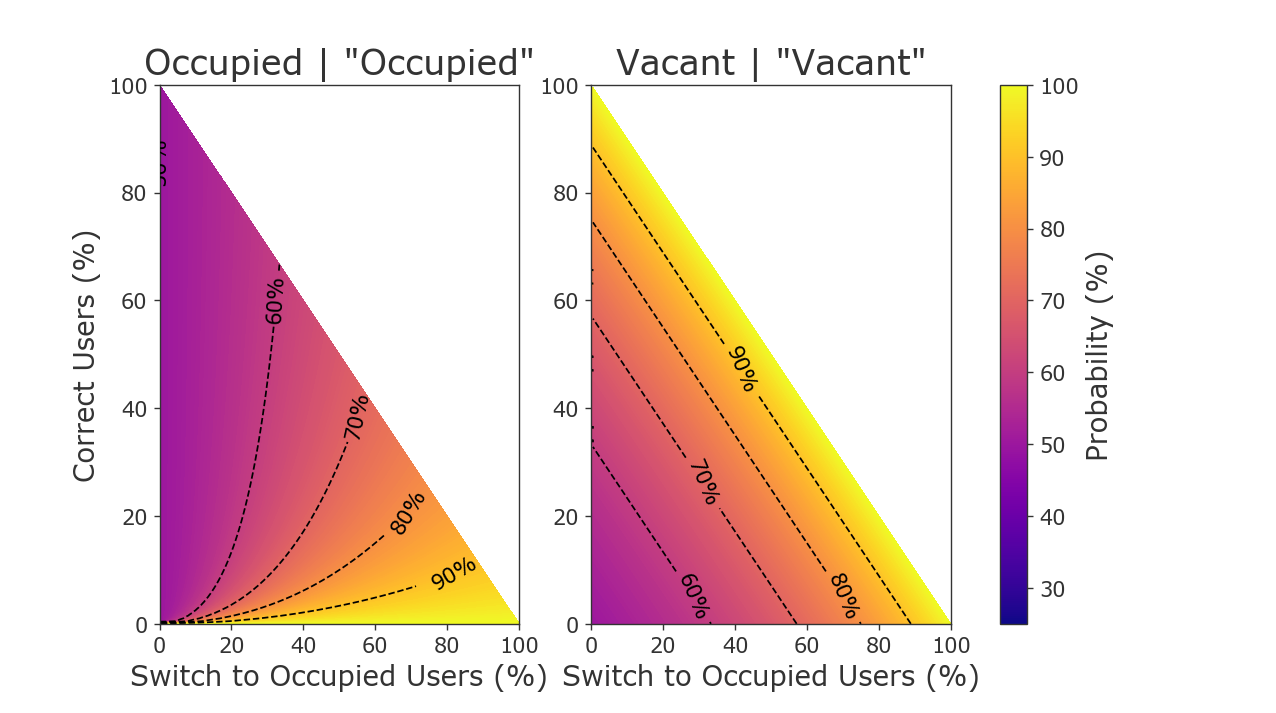
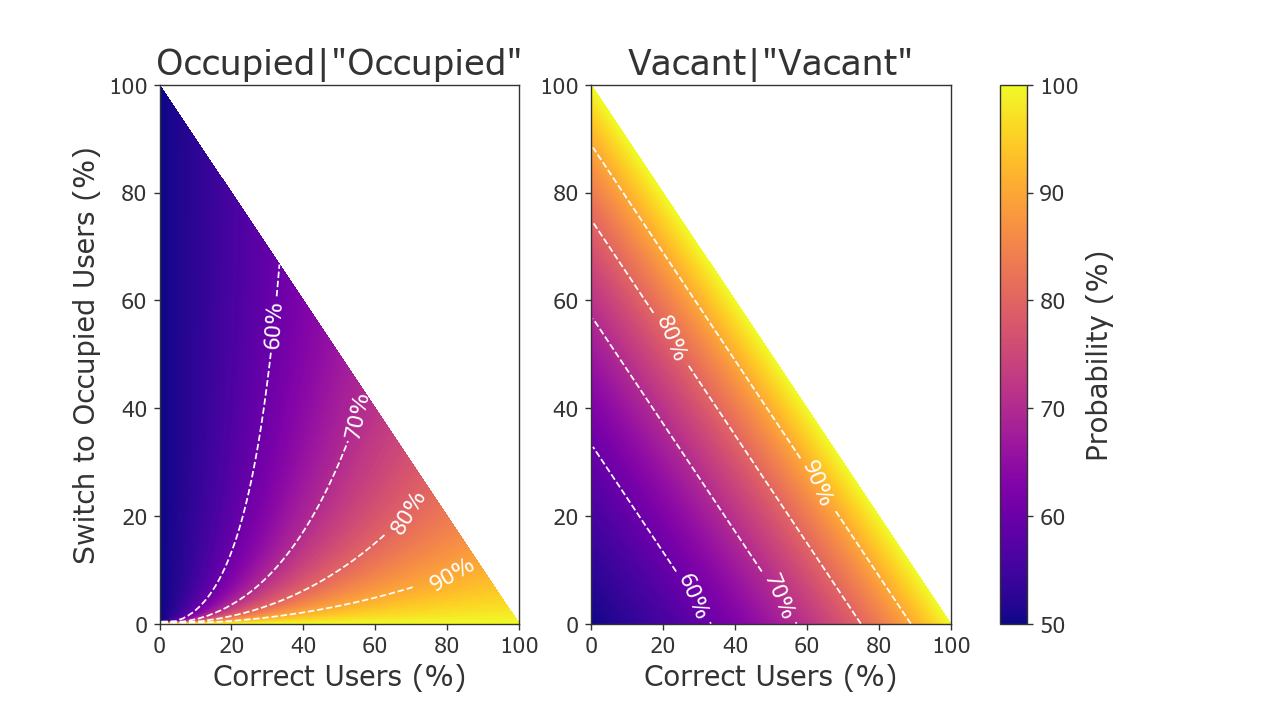
Bug fixes of bathroomSign

diff --git a/bathroomSign.py b/bathroomSign.py
@@ -50,32 +50,34 @@ def pVacGivenSignVac(p1, p2, p3, pOcc):
     return pSignVacGivenVac * pVac / pSignVac
 
 
-n = 200
+n = 201
 
 p1, p2 = np.meshgrid(np.linspace(0, 1, n), np.linspace(0, 1, n))
 p3 = 1 - p1 - p2
 pOO = pOccGivenSignOcc(p1, p2, p3, pOcc)
 pVV = pVacGivenSignVac(p1, p2, p3, pOcc)
-pOO[p3 < 0] = np.nan
-pVV[p3 < 0] = np.nan
-vMin = min(pOO[np.isfinite(pOO)].min(), pVV[np.isfinite(pVV)].min())
-vMax = min(pOO[np.isfinite(pOO)].max(), pVV[np.isfinite(pVV)].max())
+pOO[p3 < np.sqrt(np.spacing(1))] = np.nan
+pVV[p3 < np.sqrt(np.spacing(1))] = np.nan
+vMin = np.round(min(pOO[np.isfinite(pOO)].min(), pVV[np.isfinite(pVV)].min()) *
+                100) / 100
+vMax = np.round(max(pOO[np.isfinite(pOO)].max(), pVV[np.isfinite(pVV)].max()) *
+                100) / 100
 
 plt.style.use('personal')
 
 fig = plt.figure()
 cmap = plt.get_cmap('plasma')
 levels = np.linspace(vMin, vMax, n)
-cLevels = np.linspace(0.1, 0.9, 9)
+cLevels = np.linspace(0.6, 0.9, 4)
 formatter = {l: '{:2.0f}%'.format(l * 100) for l in cLevels}
 
 ax = fig.add_subplot(1, 2, 1)
 ax.contourf(p3 * 100, p2 * 100, pOO, cmap=cmap, levels=levels)
 cs = ax.contour(p3 * 100, p2 * 100, pOO, levels=cLevels,
-                colors='k', linewidths=1, linestyles='dashed')
+                colors='w', linewidths=1, linestyles='dashed')
 ax.clabel(cs, fmt=formatter)
-ax.set_xlabel('Switch to Occupied Users (%)')
-ax.set_ylabel('Correct Users (%)')
+ax.set_xlabel('Correct Users (%)')
+ax.set_ylabel('Switch to Occupied Users (%)')
 ax.set_title('Occupied | "Occupied"')
 ax.set_xlim(0, 100)
 ax.set_ylim(0, 100)
@@ -85,9 +87,9 @@ axs = [ax]
 ax = fig.add_subplot(1, 2, 2)
 ax.contourf(p3 * 100, p2 * 100, pVV, cmap=cmap, levels=levels)
 cs = ax.contour(p3 * 100, p2 * 100, pVV, levels=cLevels,
-                colors='k', linewidths=1, linestyles='dashed')
+                colors='w', linewidths=1, linestyles='dashed')
 ax.clabel(cs, fmt=formatter)
-ax.set_xlabel('Switch to Occupied Users (%)')
+ax.set_xlabel('Correct Users (%)')
 ax.set_title('Vacant | "Vacant"')
 ax.set_xlim(0, 100)
 ax.set_ylim(0, 100)
